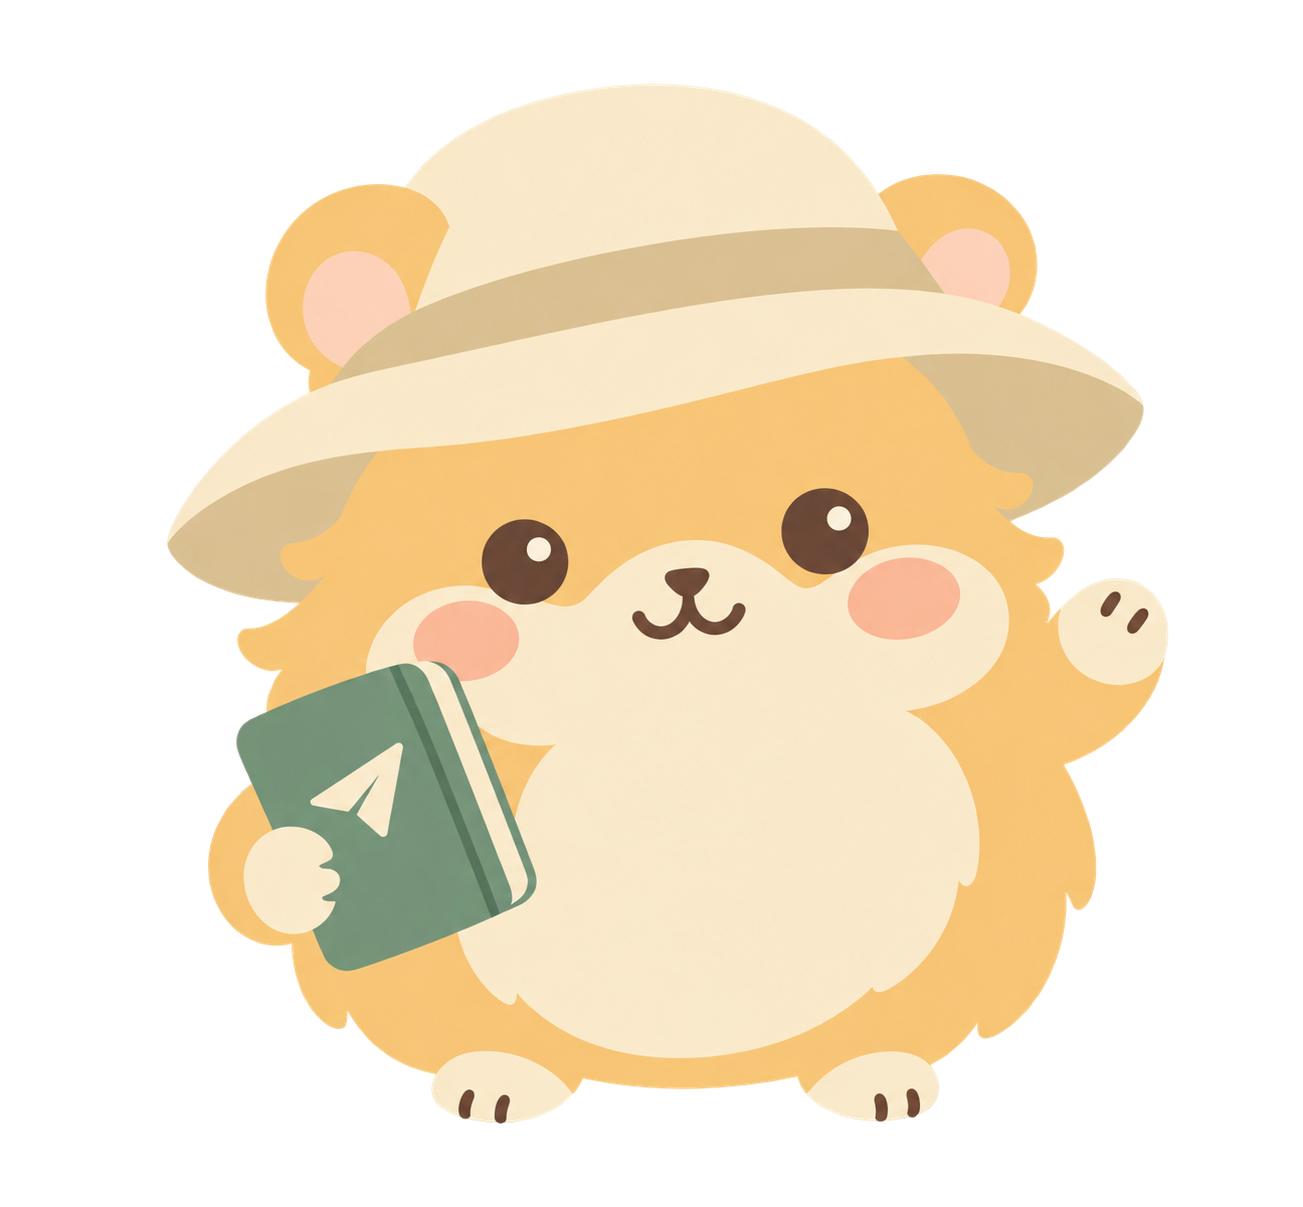
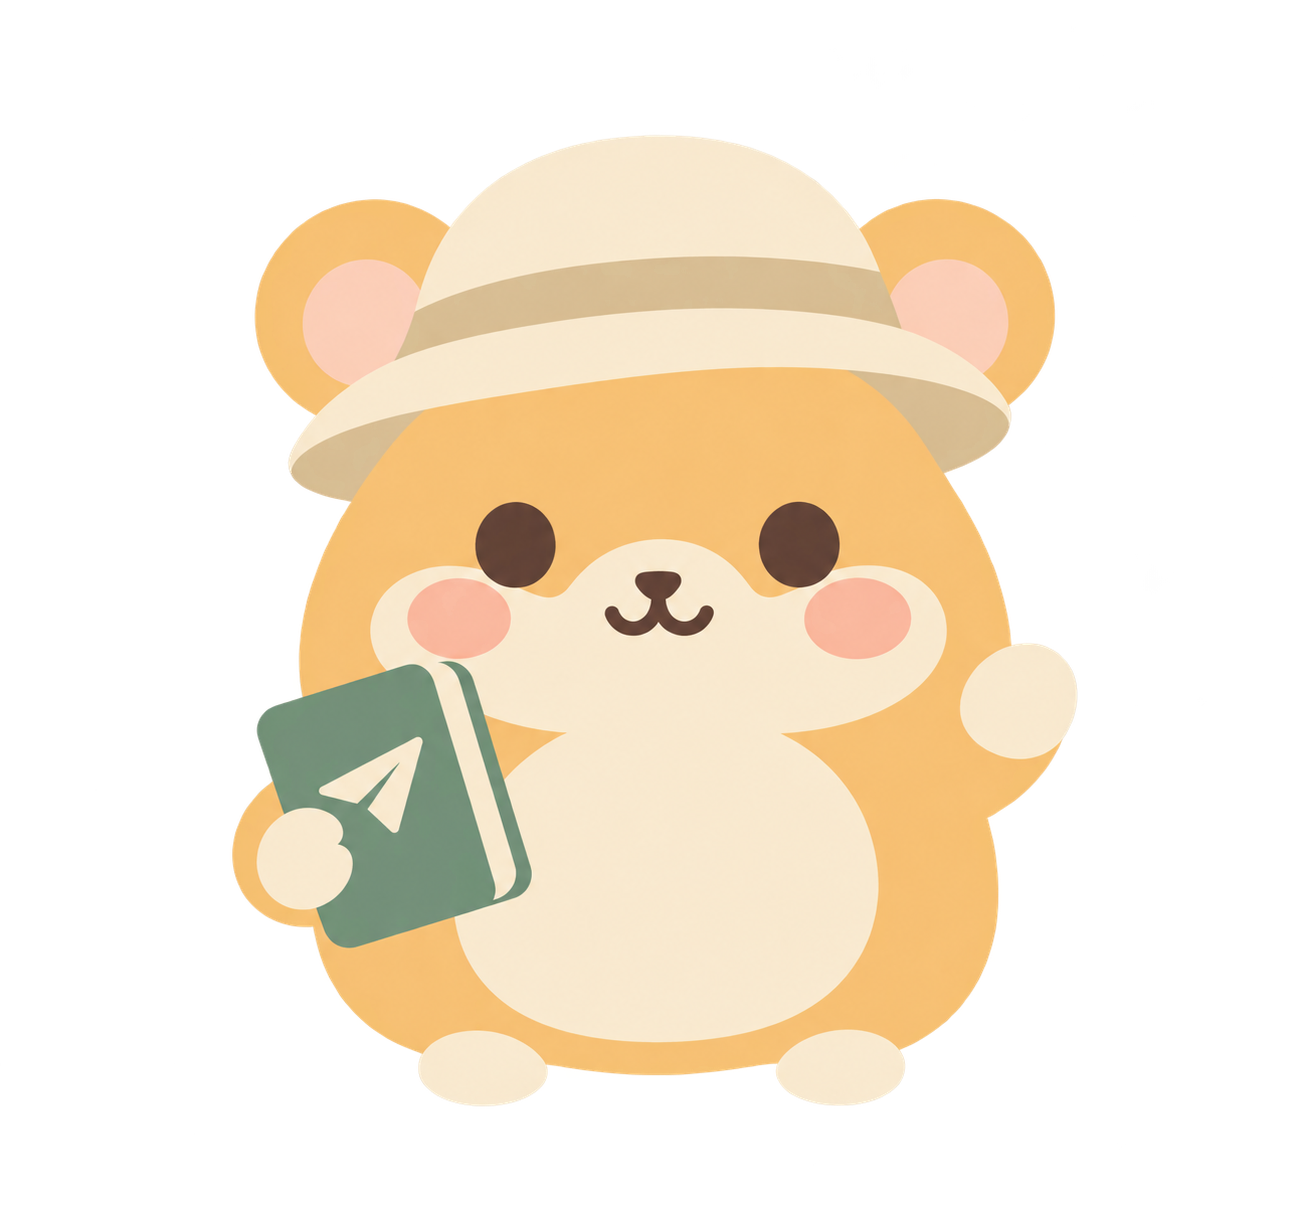
testing mascots

Changed region(s): [[0.1228, 0.0613, 0.921, 0.9503], [0.3991, 0.2146, 0.4912, 0.2759]]

diff --git a/docs/index.html b/docs/index.html
@@ -9,7 +9,7 @@
   <link rel="stylesheet" href="styles.css?v=travel-background-4">
   <link rel="stylesheet" href="notes.css?v=1">
   <link rel="stylesheet" href="stages.css?v=3">
-  <link rel="stylesheet" href="characters.css?v=flat-animals-1">
+  <link rel="stylesheet" href="characters.css?v=flat-animals-2">
   <script src="config.js" defer></script><script src="memory.js" defer></script><script src="notes.js" defer></script><script src="pipeline.js" defer></script><script src="remote-logs.js" defer></script><script src="cloud.js" defer></script><script src="app.js" defer></script><script src="stages.js" defer></script>
 </head>
 <body data-stage="setup">
@@ -61,7 +61,7 @@
         <div class="chooser">
           <section class="trip-notepad" aria-labelledby="notes-heading"><div class="trip-goal"><span id="trip-goal-title">Complete your trip</span><div class="goal-counts" aria-live="polite"><span id="country-count">Country 0/1</span><span id="city-count">Cities 0/3</span><span id="activity-count">Activities 0/1–2</span><span id="budget-check">Budget pending</span><span id="final-check">Plan pending</span></div><small id="trip-goal-hint">Choose with Sage, then budget and finalize with Astra.</small><button id="continue-review" class="text-button" type="button" hidden>Continue to form ↗</button></div><div class="notes-head"><h2 id="notes-heading">Trip notepad</h2><div><button id="copy-notes" type="button" class="text-button">Copy</button><button id="clear-notes" type="button" class="text-button">Clear</button></div></div><label class="sr-only" for="trip-notes">Important itinerary details</label><textarea id="trip-notes" readonly maxlength="6000" placeholder="Your destination, dates, budget, and itinerary will collect here as you talk." spellcheck="true"></textarea><small id="notes-status" role="status">Automatically updated with important trip details.</small></section>
         <div class="agent-options" role="group" aria-label="Choose an agent">
-          <button class="agent-card active sage" type="button" data-agent="sage" aria-pressed="true"><span class="card-top">CHOOSE YOUR TRIP <span class="select-indicator">●</span></span><span class="card-landscape" aria-hidden="true"><svg viewBox="0 0 370 100" preserveAspectRatio="none"><path class="far-hill" d="M0 80Q60 15 132 53T270 32T370 44V100H0Z"/><path class="near-hill" d="M0 91Q95 39 193 74T370 56V100H0Z"/></svg></span><img class="agent-mascot" src="assets/sage-animal.png" alt="" width="200" height="220" decoding="async"><strong>Sage<span class="arrow">↗</span></strong><small>Find your destination and must-do experiences.</small></button>
+          <button class="agent-card active sage" type="button" data-agent="sage" aria-pressed="true"><span class="card-top">CHOOSE YOUR TRIP <span class="select-indicator">●</span></span><span class="card-landscape" aria-hidden="true"><svg viewBox="0 0 370 100" preserveAspectRatio="none"><path class="far-hill" d="M0 80Q60 15 132 53T270 32T370 44V100H0Z"/><path class="near-hill" d="M0 91Q95 39 193 74T370 56V100H0Z"/></svg></span><img class="agent-mascot" src="assets/sage-animal.png?v=2" alt="" width="200" height="220" decoding="async"><strong>Sage<span class="arrow">↗</span></strong><small>Find your destination and must-do experiences.</small></button>
           <button class="agent-card astra" type="button" data-agent="astra" aria-pressed="false" hidden><span class="card-top">FINALIZE YOUR PLAN <span class="select-indicator">○</span></span><span class="card-landscape" aria-hidden="true"><svg viewBox="0 0 370 100" preserveAspectRatio="none"><path class="far-hill" d="M0 80Q60 15 132 53T270 32T370 44V100H0Z"/><path class="near-hill" d="M0 91Q95 39 193 74T370 56V100H0Z"/></svg></span><img class="agent-mascot" src="assets/astra-animal.png" alt="" width="200" height="220" decoding="async"><strong>Astra<span class="arrow">↗</span></strong><small>Work out your itinerary, timing, and budget.</small></button>
           <button id="switch-agent" class="switch-agent-button" type="button" aria-label="Switch to Astra">Switch agent <span aria-hidden="true">⇄</span></button>
         </div>

diff --git a/docs/characters.css b/docs/characters.css
@@ -36,3 +36,12 @@
 
 /* Preserve the transparent animal artwork proportions inside the existing cards. */
 #planning-stage .agent-mascot{object-fit:contain}
+
+/* Reserve a real column for each mascot, keeping it beside the card copy. */
+#planning-stage .agent-options .agent-card{display:grid;grid-template-columns:minmax(0,1fr) minmax(124px,.95fr);grid-template-rows:auto 1fr auto;column-gap:12px;row-gap:8px;align-items:start}
+#planning-stage .agent-card .card-top{grid-column:1 / -1;grid-row:1}
+#planning-stage .agent-card .agent-mascot{position:relative;grid-column:2;grid-row:2 / 4;justify-self:center;align-self:center;top:auto;right:auto;width:100%;max-width:170px;height:190px;object-fit:contain;object-position:center;z-index:0}
+#planning-stage .agent-card strong{grid-column:1;grid-row:2;align-self:end;margin:0;font-size:32px}
+#planning-stage .agent-card small{grid-column:1;grid-row:3;max-width:none;margin:0;font-size:12px;line-height:1.65}
+@media(max-width:600px){#planning-stage .agent-card strong{font-size:30px}#planning-stage .agent-card .agent-mascot{height:178px}#planning-stage .agent-card small{font-size:11px}}
+@media(max-width:400px){#planning-stage .agent-options .agent-card{column-gap:9px;grid-template-columns:minmax(0,1fr) minmax(116px,.95fr)}#planning-stage .agent-card strong{font-size:26px}#planning-stage .agent-card .arrow{font-size:16px;margin-left:5px}#planning-stage .agent-card .agent-mascot{height:168px}}
